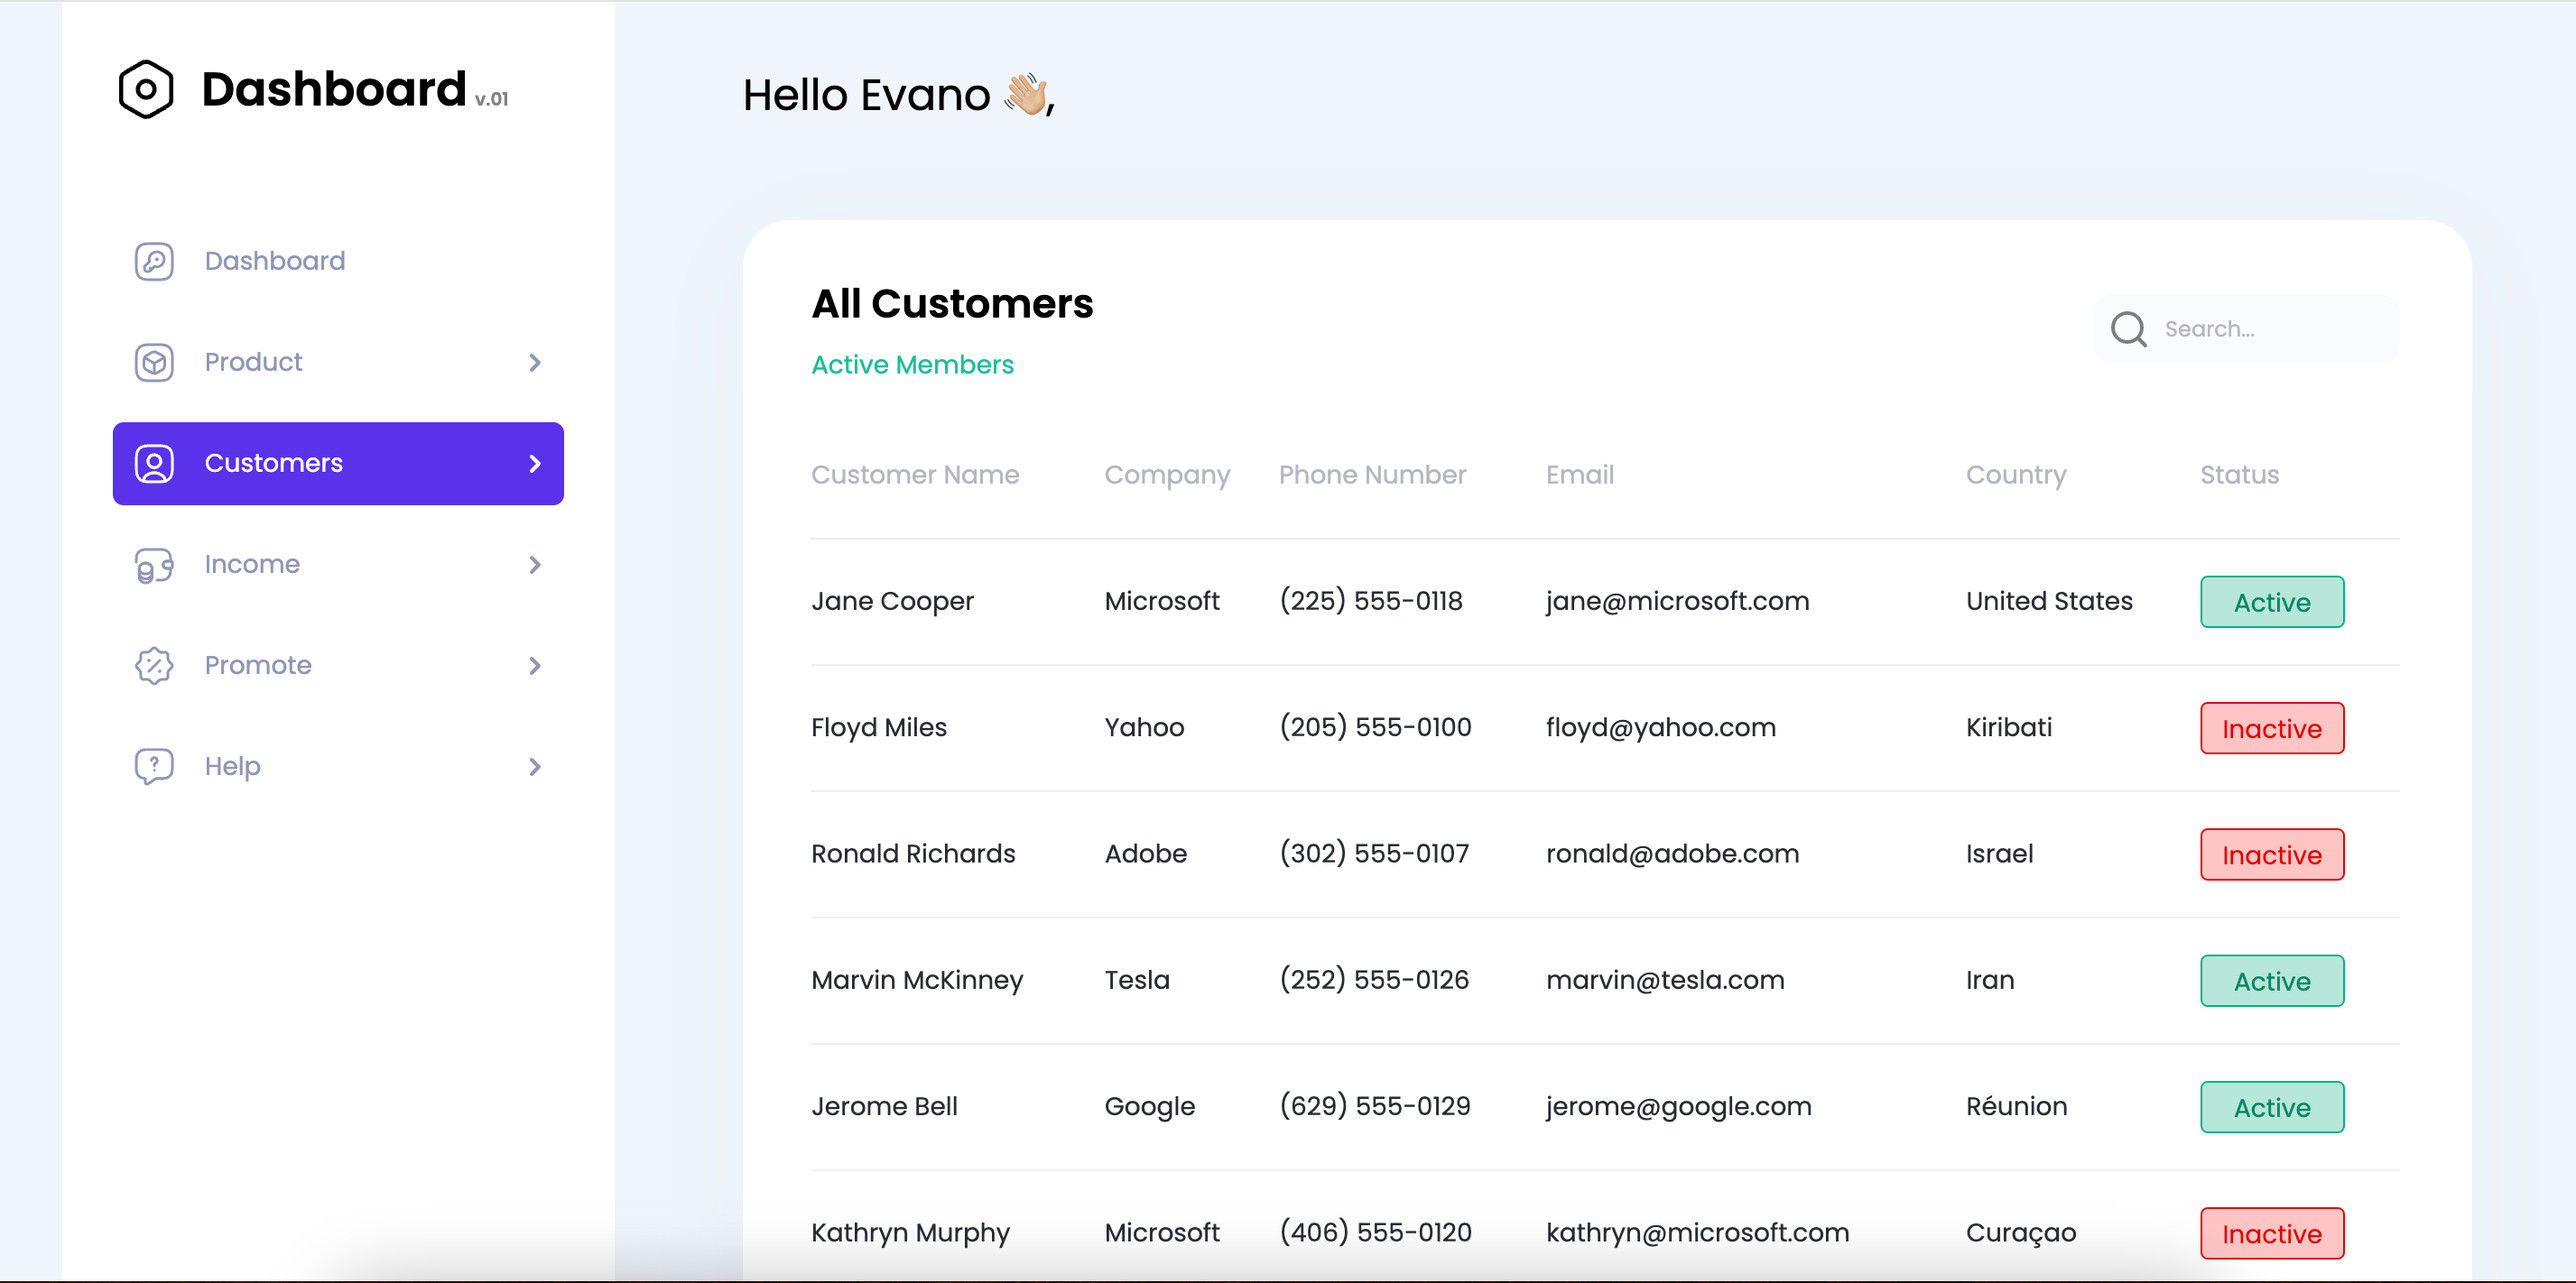
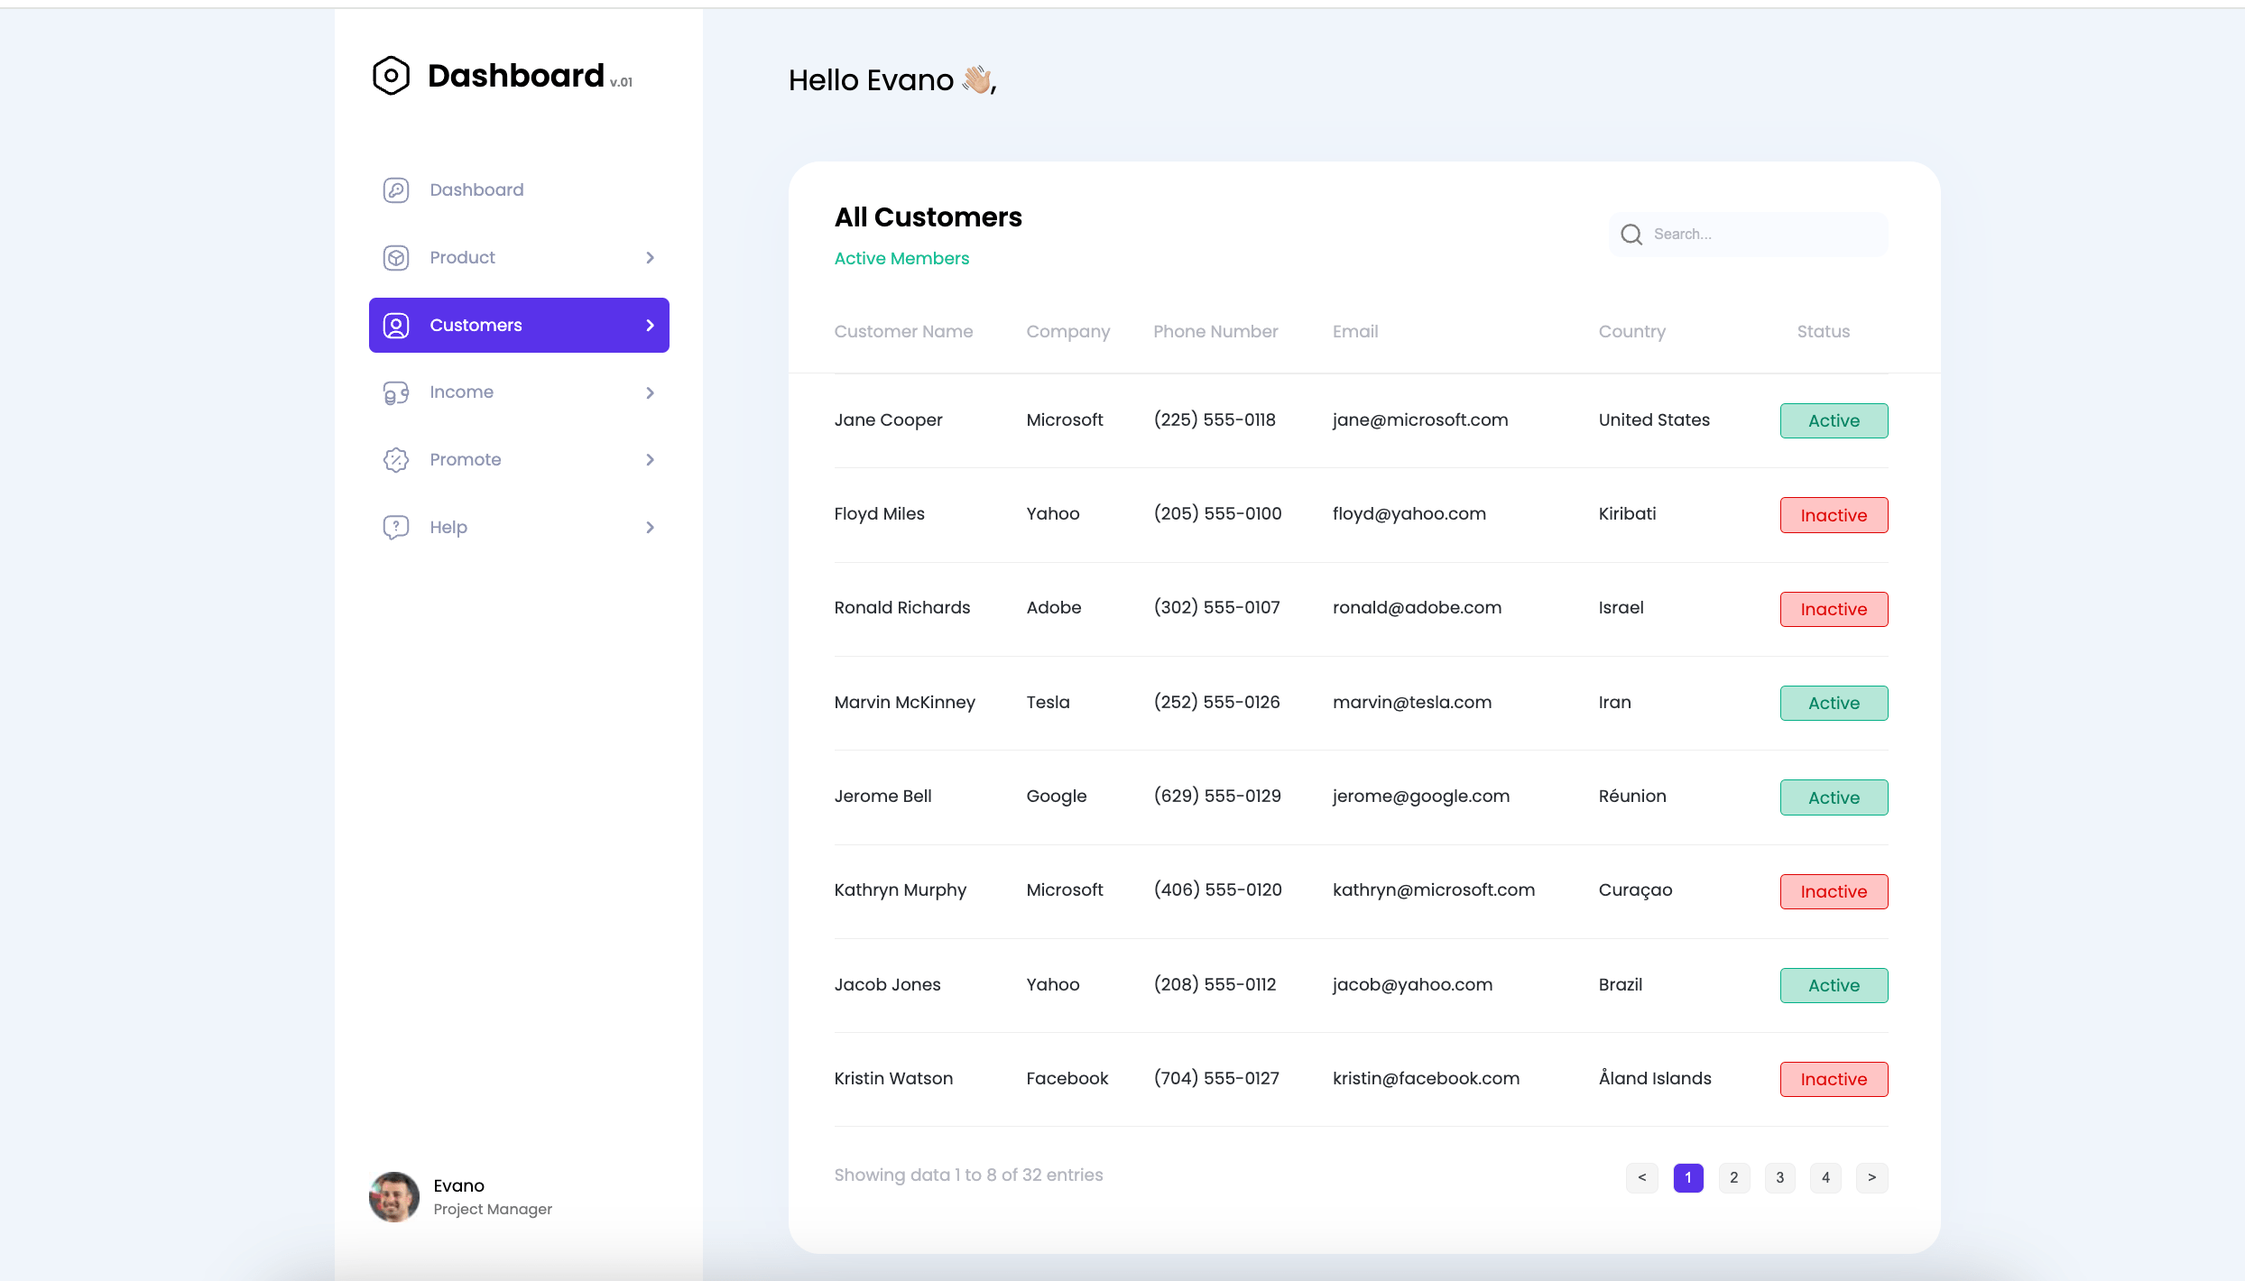
new project

diff --git a/src/app/projects/projects.data.ts b/src/app/projects/projects.data.ts
@@ -9,6 +9,7 @@ import angularUsers from "../../../public/angular-users-min.png";
 import jadwalin from "../../../public/jadwalin-min.png";
 import forkApp from "../../../public/forkApp-min.png";
 import theHum from "../../../public/theHum-min.png";
+import dashboard from "../../../public/dashboard-min.png";
 
 export const projects: IProjectItem[] = [
 	{
@@ -117,6 +118,20 @@ export const projects: IProjectItem[] = [
 	},
 	{
 		id: "5",
+		imageSrc: dashboard,
+		projectName: "Admin Dashboard",
+		url: "https://dashboard-nine-azure.vercel.app/",
+		technologies: ["HTML", "CSS", "JavaScript", "Gulp", "SVG Sprite"],
+		features: [
+			"The 'Admin Dashboard' project is a comprehensive and user-friendly dashboard designed for managing customer data and various administrative tasks. The dashboard is fully responsive, ensuring smooth operation across all devices, including desktops, tablets, and smartphones.",
+
+			"Utilizing a clean and modern design, the dashboard includes features such as dynamic content loading, a sidebar navigation with active state indicators, and a customer table with pagination. This setup allows for efficient data management and a seamless user experience.",
+
+			"The project is built with the help of Gulp, a powerful task runner that automates common development tasks like CSS preprocessing, image optimization, and HTML formatting. These features ensure that the code remains clean, optimized, and easy to maintain.",
+		],
+	},
+	{
+		id: "6",
 		imageSrc: tarot,
 		projectName: "Tarot cards",
 		url: "https://starlit-starburst-6e6599.netlify.app/",
@@ -128,7 +143,7 @@ export const projects: IProjectItem[] = [
 		],
 	},
 	{
-		id: "6",
+		id: "7",
 		imageSrc: vueUsers,
 		projectName: "User Manager",
 		url: "https://jocular-alfajores-57de3d.netlify.app/",
@@ -152,7 +167,7 @@ export const projects: IProjectItem[] = [
 		],
 	},
 	{
-		id: "7",
+		id: "8",
 		imageSrc: angularUsers,
 		projectName: "Angular Users",
 		url: "https://users-app-angular-rose.vercel.app/angular-test-pages/",
@@ -175,7 +190,7 @@ export const projects: IProjectItem[] = [
 		],
 	},
 	{
-		id: "8",
+		id: "9",
 		imageSrc: jadwalin,
 		projectName: "Jadwalin",
 		url: "https://grand-dolphin-830d8b.netlify.app/",
@@ -200,7 +215,7 @@ export const projects: IProjectItem[] = [
 	},
 
 	{
-		id: "9",
+		id: "10",
 		imageSrc: forkApp,
 		projectName: "Fork App",
 		url: "https://tranquil-medovik-b374bd.netlify.app/",
@@ -216,7 +231,7 @@ export const projects: IProjectItem[] = [
 		],
 	},
 	{
-		id: "10",
+		id: "11",
 		imageSrc: theHum,
 		projectName: "The Hum",
 		url: "https://yaroslav1q2w.github.io/project-hum/",

diff --git a/src/components/ui/modal/Modal.tsx b/src/components/ui/modal/Modal.tsx
@@ -26,24 +26,21 @@ const Modal: FC<ModalProps> = ({ isOpen, onClose, project }) => {
 					initial={{ opacity: 0 }}
 					animate={{ opacity: 1 }}
 					exit={{ opacity: 0 }}
-					onClick={onClose}
-				>
+					onClick={onClose}>
 					<motion.div
 						className={styles.modal}
+						initial={{ opacity: 0 }}
+						animate={{ opacity: 1 }}
+						exit={{ opacity: 0 }}
 						layoutId={project.id}
-						initial={{ y: 50, opacity: 0 }}
-						animate={{ y: 0, opacity: 1 }}
-						exit={{ y: 50, opacity: 0 }}
-						onClick={handleModalClick}
-					>
+						onClick={handleModalClick}>
 						<motion.button
 							onClick={onClose}
 							className={styles.closeButton}
 							variants={opacityAnimation}
 							initial="hidden"
 							animate="visible"
-							custom={0.6}
-						>
+							custom={0.6}>
 							<IoMdCloseCircle />
 						</motion.button>
 						<motion.div className={styles.projectDetails}>
@@ -75,8 +72,7 @@ const Modal: FC<ModalProps> = ({ isOpen, onClose, project }) => {
 								rel="noopener noreferrer"
 								className={styles.projectLink}
 								whileHover={{ scale: 1.1 }}
-								transition={{ type: "spring", stiffness: 400, damping: 8 }}
-							>
+								transition={{ type: "spring", stiffness: 400, damping: 8 }}>
 								Visit Project
 							</motion.a>
 						</motion.div>

diff --git a/src/app/projects/page.tsx b/src/app/projects/page.tsx
@@ -36,13 +36,11 @@ const Projects: FC = () => {
 				<motion.div
 					className={styles.headerSection}
 					initial="hidden"
-					animate="visible"
-				>
+					animate="visible">
 					<motion.div
 						className={styles.textSection}
 						variants={leftAnimation}
-						custom={0.3}
-					>
+						custom={0.3}>
 						<h2 className={styles.title}>Projects.</h2>
 						<p className={styles.text}>
 							Welcome to the Projects section! Here you can explore my latest
@@ -55,8 +53,7 @@ const Projects: FC = () => {
 					<motion.div
 						className={styles.imageSection}
 						variants={rightAnimation}
-						custom={0.3}
-					>
+						custom={0.3}>
 						<Image
 							src={webMin}
 							alt="Project"
@@ -74,15 +71,13 @@ const Projects: FC = () => {
 						variants={containerListAnimation}
 						initial="hidden"
 						animate={startAnimation ? "visible" : "hidden"}
-						ref={ref}
-					>
+						ref={ref}>
 						{projects.map((project) => (
 							<motion.div
 								key={project.id}
 								variants={listAnimation}
 								layoutId={project.id}
-								onClick={() => setSelectedId(project.id)}
-							>
+								onClick={() => setSelectedId(project.id)}>
 								<ProjectItem
 									id={project.id}
 									imageSrc={project.imageSrc}

diff --git a/src/components/main/components/formSection/FormSection.tsx b/src/components/main/components/formSection/FormSection.tsx
@@ -55,14 +55,12 @@ const FormSection: FC = () => {
 				ref={ref}
 				initial="hidden"
 				animate={startAnimation ? "visible" : "hidden"}
-				variants={formAnimations}
-			>
+				variants={formAnimations}>
 				<div className={styles.inner}>
 					<motion.div
 						className={styles.content}
 						variants={topAnimation}
-						custom={0.5}
-					>
+						custom={0.5}>
 						<h2 className={styles.title}>Have any questions?</h2>
 						<p className={styles.text}>
 							Feel free to drop us a message, and I'll get back to you as soon
@@ -72,8 +70,7 @@ const FormSection: FC = () => {
 					<motion.div
 						className={styles.form}
 						variants={topAnimation}
-						custom={0.6}
-					>
+						custom={0.6}>
 						<form className={styles.formElem} onSubmit={handleSubmit(onSubmit)}>
 							<div>
 								<Field
